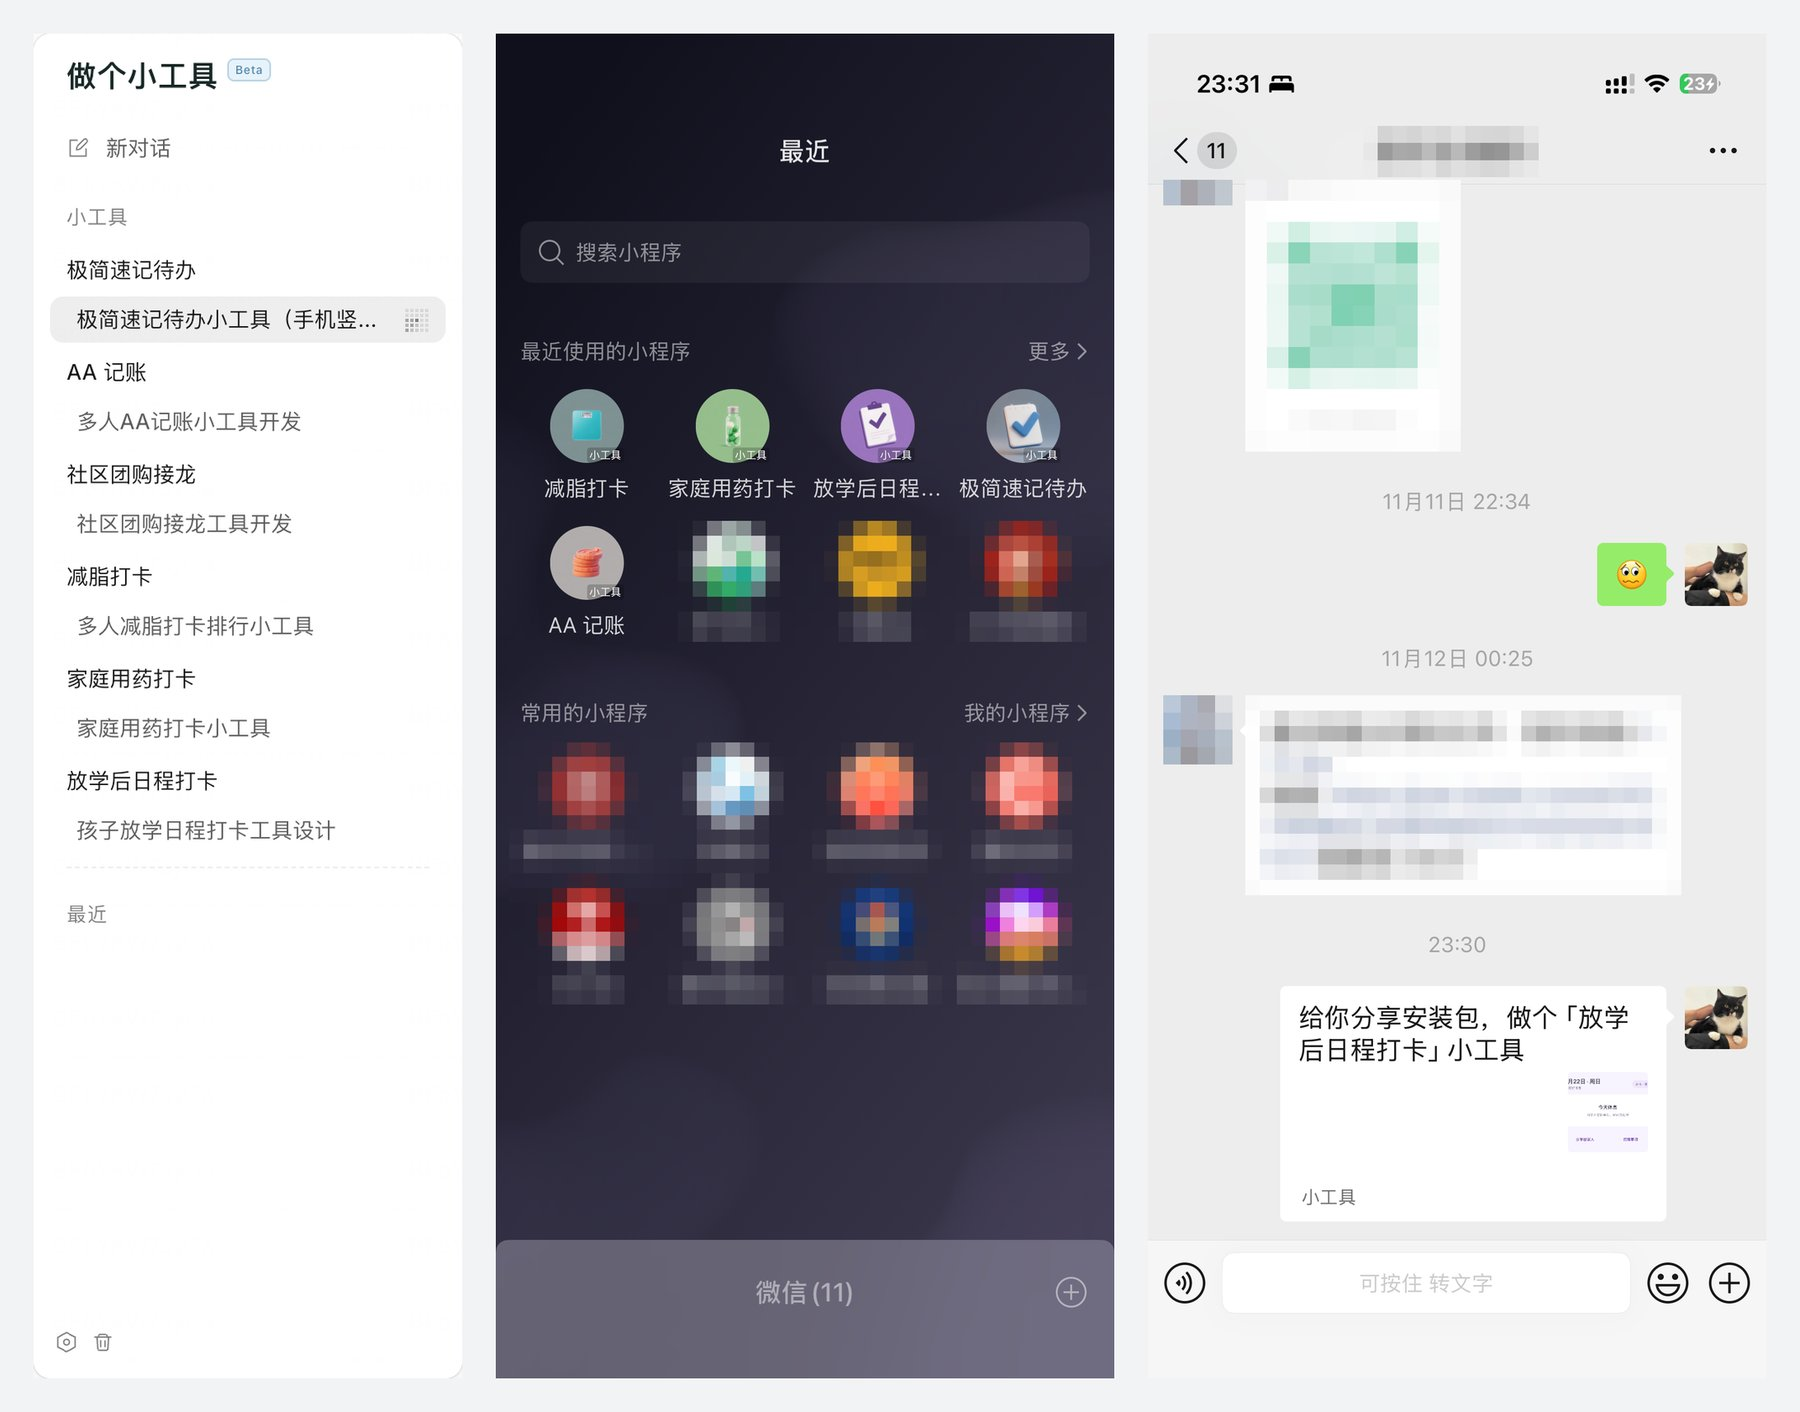
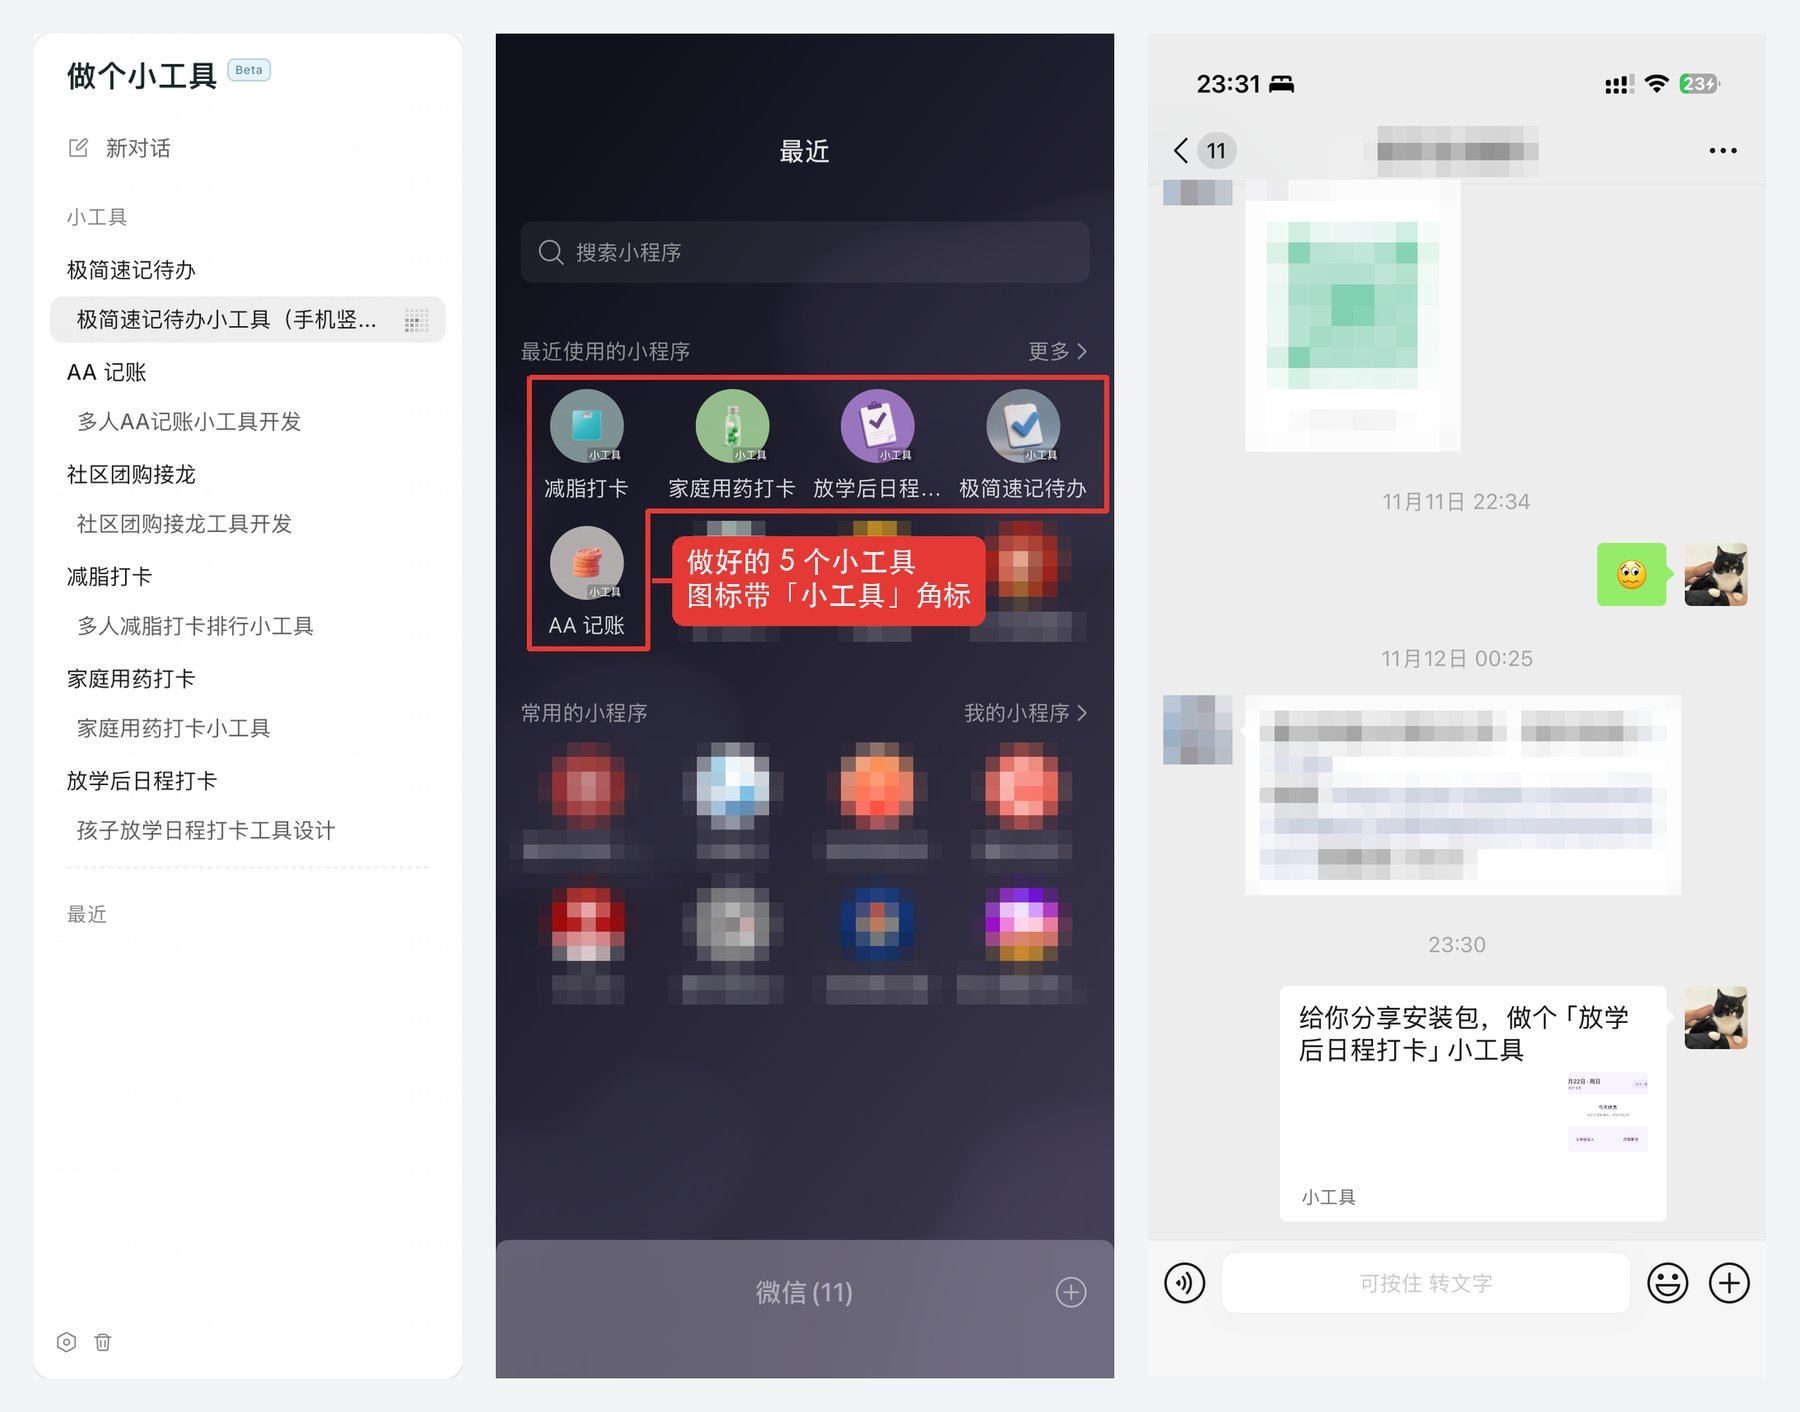
发布分享图标出手机里的 5 个小工具

Changed region(s): [[0.28, 0.2493, 0.6222, 0.4674]]

diff --git a/README.md b/README.md
@@ -191,7 +191,7 @@ flowchart LR
 
 <img src="assets/screenshots/publish-and-share.jpg" alt="左：客户端里的工具列表；中：手机微信里的小工具；右：把小工具分享给朋友" width="100%">
 
-<sub>左：客户端里做好的 6 个小工具 · 中：手机微信「最近使用的小程序」里带「小工具」角标 · 右：以卡片形式分享给朋友（隐私已打码）</sub>
+<sub>左：客户端里做好的 6 个小工具 · 中：手机微信「最近使用的小程序」里，红框里的 5 个就是做好的小工具 · 右：以卡片形式分享给朋友（隐私已打码）</sub>
 
 ## 💡 实测下来的几条经验
 
